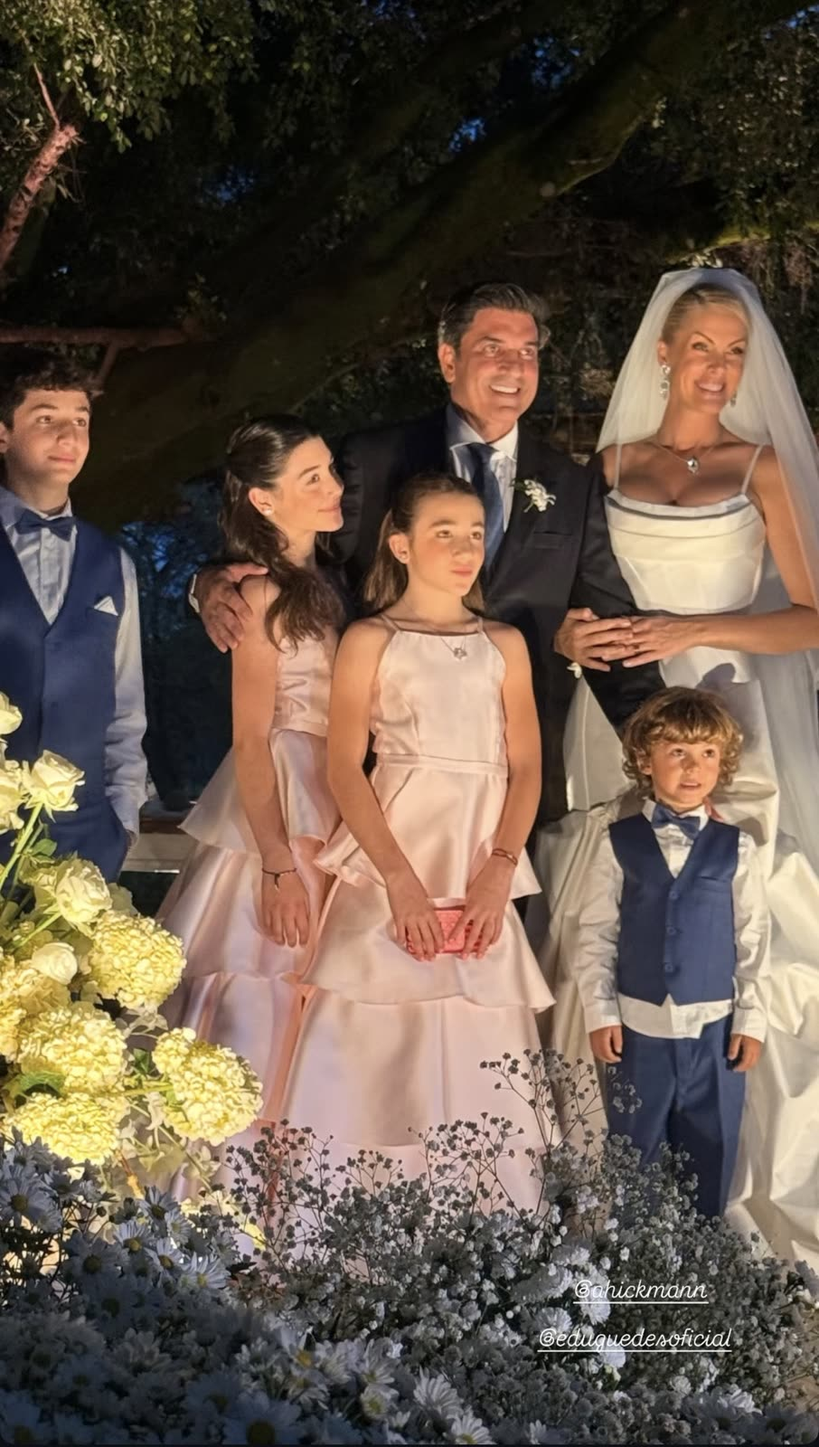
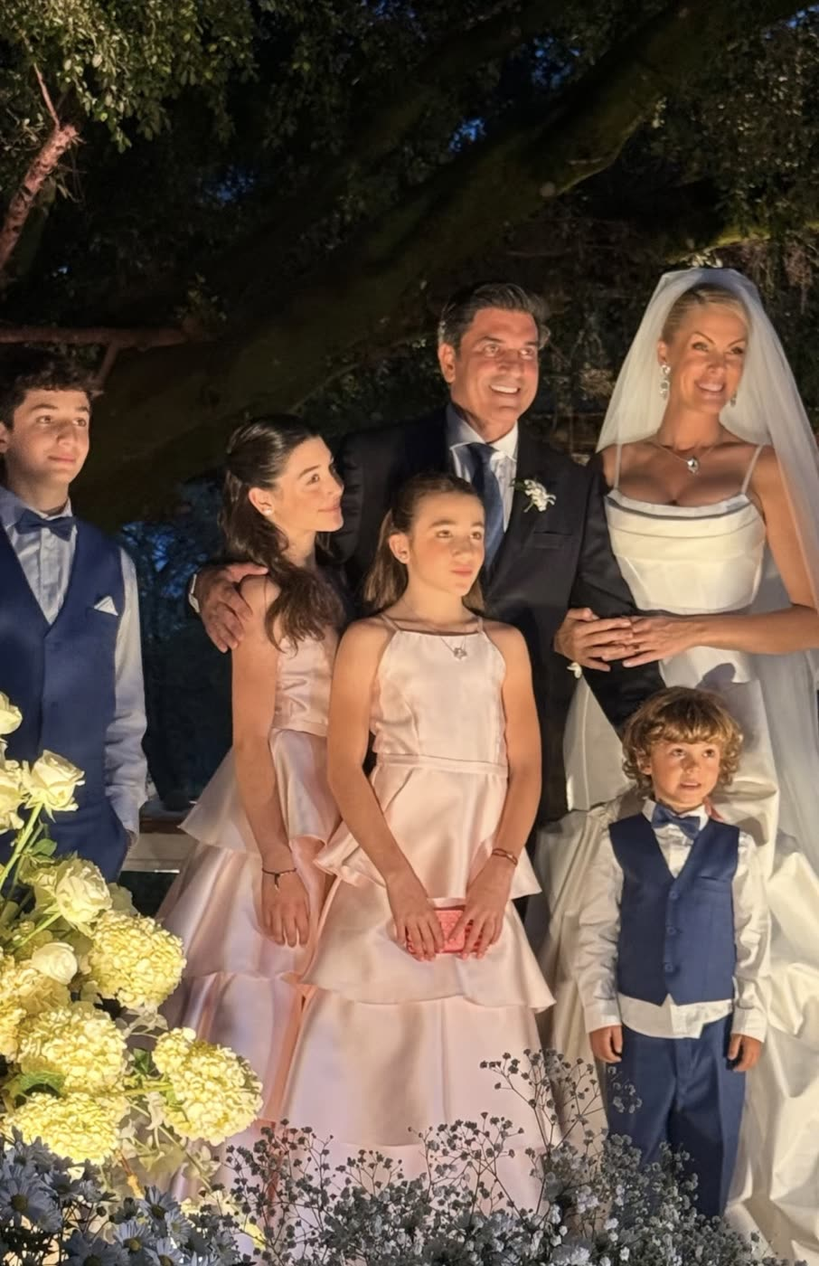
Rename portfolio projects, reorder, and crop the @ handles
- Featured wedding is now "Casamento Ana Hickmann e Edu Guedes", in the
  heading, the page index, the lightbox captions and the page metadata.
- The four shoots are prefixed "Noiva" and Nina is spelled Nyna:
  Noiva Nyna, Noiva Vitória, Noiva Maya, Noiva Iza.
- New order: the wedding, then Nyna, Vitória, Maya, Iza.
- The night family photo carried "@ahickmann / @eduguedesoficial" burned
  into the bottom of the frame. Re-cropped from the original at 1400px
  tall (was 1600), which cuts the handles and only foreground flowers.
  Checked the bottom of all 21 photos — no other handles.

diff --git a/portfolio.html b/portfolio.html
@@ -4,12 +4,12 @@
   <meta charset="UTF-8" />
   <meta name="viewport" content="width=device-width, initial-scale=1.0" />
   <title>Portfólio — Arih Ateliê | Noivas, casamentos e editoriais</title>
-  <meta name="description" content="Portfólio do Arih Ateliê: o casamento Edu Guedes e ensaios de noivas em Ilhabela. Maquiagem e penteados de alta performance, fotografados de perto." />
+  <meta name="description" content="Portfólio do Arih Ateliê: o casamento de Ana Hickmann e Edu Guedes e ensaios de noivas em Ilhabela. Maquiagem e penteados de alta performance, fotografados de perto." />
   <meta name="theme-color" content="#FBF6EC" />
 
   <!-- Open Graph -->
   <meta property="og:title" content="Portfólio — Arih Ateliê" />
-  <meta property="og:description" content="Um casamento real e quatro ensaios de noivas. Maquiagem e penteados que resistem ao sol, ao vento e à festa." />
+  <meta property="og:description" content="O casamento de Ana Hickmann e Edu Guedes e quatro ensaios de noivas. Maquiagem e penteados que resistem ao sol, ao vento e à festa." />
   <meta property="og:type" content="website" />
   <meta property="og:locale" content="pt_BR" />
   <meta property="og:image" content="assets/web/casamentoeduguedes/04.jpg" />
@@ -566,16 +566,16 @@
       </div>
 
       <nav class="reveal mt-12 pt-6 border-t border-rose/35 pf-index" aria-label="Projetos nesta página">
-        <a href="#edu-guedes">Casamento Edu Guedes</a>
-        <a href="#maya">Maya</a>
-        <a href="#iza">Iza</a>
-        <a href="#nina">Nina</a>
-        <a href="#vitoria">Vitória</a>
+        <a href="#edu-guedes">Casamento Ana Hickmann e Edu Guedes</a>
+        <a href="#nyna">Noiva Nyna</a>
+        <a href="#vitoria">Noiva Vitória</a>
+        <a href="#maya">Noiva Maya</a>
+        <a href="#iza">Noiva Iza</a>
       </nav>
     </div>
   </section>
 
-  <!-- ============ DESTAQUE — Casamento Edu Guedes ============ -->
+  <!-- ============ DESTAQUE — Casamento Ana Hickmann e Edu Guedes ============ -->
   <section id="edu-guedes" class="relative pb-[var(--space)] overflow-hidden">
     <div class="relative z-10 mx-auto max-w-7xl px-5 lg:px-10">
 
@@ -586,7 +586,7 @@
             Casamento real
           </span>
           <h2 class="reveal mt-4 font-display font-semibold text-[clamp(2.1rem,5vw,3.6rem)] leading-[1] text-terracotta" style="letter-spacing:-0.025em;">
-            Casamento<br class="hidden sm:block"> Edu Guedes
+            Casamento Ana Hickmann<br class="hidden sm:block"> e Edu Guedes
           </h2>
         </div>
         <div class="reveal">
@@ -603,12 +603,12 @@
 
       <div class="f-grid mt-10 lg:mt-14">
         <div class="f-col f-col-a">
-          <button type="button" class="pf-photo reveal " data-full="assets/web/casamentoeduguedes/04.jpg" data-project="Casamento Edu Guedes" data-alt="Pai e filha de mãos dadas, caminhando pelo tapete branco do jardim" aria-label="Ampliar foto: Pai e filha de mãos dadas, caminhando pelo tapete branco do jardim"><img src="assets/web/casamentoeduguedes/04.jpg" width="1212" height="1600" sizes="(min-width: 900px) 52vw, 92vw" alt="Pai e filha de mãos dadas, caminhando pelo tapete branco do jardim" decoding="async" /><span class="pf-mat"></span><span class="pf-zoom" aria-hidden="true"><svg width="17" height="17" viewBox="0 0 24 24" fill="none" stroke="currentColor" stroke-width="1.7" stroke-linecap="round"><circle cx="11" cy="11" r="6.5"/><path d="M20 20l-4.4-4.4M11 8.4v5.2M8.4 11h5.2"/></svg></span></button>
-          <button type="button" class="pf-photo reveal " data-full="assets/web/casamentoeduguedes/03.jpg" data-project="Casamento Edu Guedes" data-alt="Os noivos com a família no jardim iluminado, durante a festa à noite" aria-label="Ampliar foto: Os noivos com a família no jardim iluminado, durante a festa à noite"><img src="assets/web/casamentoeduguedes/03.jpg" width="906" height="1600" sizes="(min-width: 900px) 52vw, 92vw" alt="Os noivos com a família no jardim iluminado, durante a festa à noite" loading="lazy" decoding="async" /><span class="pf-mat"></span><span class="pf-zoom" aria-hidden="true"><svg width="17" height="17" viewBox="0 0 24 24" fill="none" stroke="currentColor" stroke-width="1.7" stroke-linecap="round"><circle cx="11" cy="11" r="6.5"/><path d="M20 20l-4.4-4.4M11 8.4v5.2M8.4 11h5.2"/></svg></span></button>
+          <button type="button" class="pf-photo reveal " data-full="assets/web/casamentoeduguedes/04.jpg" data-project="Casamento Ana Hickmann e Edu Guedes" data-alt="Pai e filha de mãos dadas, caminhando pelo tapete branco do jardim" aria-label="Ampliar foto: Pai e filha de mãos dadas, caminhando pelo tapete branco do jardim"><img src="assets/web/casamentoeduguedes/04.jpg" width="1212" height="1600" sizes="(min-width: 900px) 52vw, 92vw" alt="Pai e filha de mãos dadas, caminhando pelo tapete branco do jardim" decoding="async" /><span class="pf-mat"></span><span class="pf-zoom" aria-hidden="true"><svg width="17" height="17" viewBox="0 0 24 24" fill="none" stroke="currentColor" stroke-width="1.7" stroke-linecap="round"><circle cx="11" cy="11" r="6.5"/><path d="M20 20l-4.4-4.4M11 8.4v5.2M8.4 11h5.2"/></svg></span></button>
+          <button type="button" class="pf-photo reveal " data-full="assets/web/casamentoeduguedes/03.jpg" data-project="Casamento Ana Hickmann e Edu Guedes" data-alt="Os noivos com a família no jardim iluminado, durante a festa à noite" aria-label="Ampliar foto: Os noivos com a família no jardim iluminado, durante a festa à noite"><img src="assets/web/casamentoeduguedes/03.jpg" width="906" height="1400" sizes="(min-width: 900px) 52vw, 92vw" alt="Os noivos com a família no jardim iluminado, durante a festa à noite" loading="lazy" decoding="async" /><span class="pf-mat"></span><span class="pf-zoom" aria-hidden="true"><svg width="17" height="17" viewBox="0 0 24 24" fill="none" stroke="currentColor" stroke-width="1.7" stroke-linecap="round"><circle cx="11" cy="11" r="6.5"/><path d="M20 20l-4.4-4.4M11 8.4v5.2M8.4 11h5.2"/></svg></span></button>
         </div>
         <div class="f-col f-col-b">
-          <button type="button" class="pf-photo reveal " data-full="assets/web/casamentoeduguedes/01.jpg" data-project="Casamento Edu Guedes" data-alt="Família e madrinhas reunidas na entrada do salão, antes da cerimônia" aria-label="Ampliar foto: Família e madrinhas reunidas na entrada do salão, antes da cerimônia"><img src="assets/web/casamentoeduguedes/01.jpg" width="1600" height="1600" sizes="(min-width: 900px) 44vw, 92vw" alt="Família e madrinhas reunidas na entrada do salão, antes da cerimônia" decoding="async" /><span class="pf-mat"></span><span class="pf-zoom" aria-hidden="true"><svg width="17" height="17" viewBox="0 0 24 24" fill="none" stroke="currentColor" stroke-width="1.7" stroke-linecap="round"><circle cx="11" cy="11" r="6.5"/><path d="M20 20l-4.4-4.4M11 8.4v5.2M8.4 11h5.2"/></svg></span></button>
-          <button type="button" class="pf-photo reveal " data-full="assets/web/casamentoeduguedes/02.jpg" data-project="Casamento Edu Guedes" data-alt="Cortejo de crianças levando buquês pelo caminho do jardim" aria-label="Ampliar foto: Cortejo de crianças levando buquês pelo caminho do jardim"><img src="assets/web/casamentoeduguedes/02.jpg" width="910" height="1600" sizes="(min-width: 900px) 44vw, 92vw" alt="Cortejo de crianças levando buquês pelo caminho do jardim" loading="lazy" decoding="async" /><span class="pf-mat"></span><span class="pf-zoom" aria-hidden="true"><svg width="17" height="17" viewBox="0 0 24 24" fill="none" stroke="currentColor" stroke-width="1.7" stroke-linecap="round"><circle cx="11" cy="11" r="6.5"/><path d="M20 20l-4.4-4.4M11 8.4v5.2M8.4 11h5.2"/></svg></span></button>
+          <button type="button" class="pf-photo reveal " data-full="assets/web/casamentoeduguedes/01.jpg" data-project="Casamento Ana Hickmann e Edu Guedes" data-alt="Família e madrinhas reunidas na entrada do salão, antes da cerimônia" aria-label="Ampliar foto: Família e madrinhas reunidas na entrada do salão, antes da cerimônia"><img src="assets/web/casamentoeduguedes/01.jpg" width="1600" height="1600" sizes="(min-width: 900px) 44vw, 92vw" alt="Família e madrinhas reunidas na entrada do salão, antes da cerimônia" decoding="async" /><span class="pf-mat"></span><span class="pf-zoom" aria-hidden="true"><svg width="17" height="17" viewBox="0 0 24 24" fill="none" stroke="currentColor" stroke-width="1.7" stroke-linecap="round"><circle cx="11" cy="11" r="6.5"/><path d="M20 20l-4.4-4.4M11 8.4v5.2M8.4 11h5.2"/></svg></span></button>
+          <button type="button" class="pf-photo reveal " data-full="assets/web/casamentoeduguedes/02.jpg" data-project="Casamento Ana Hickmann e Edu Guedes" data-alt="Cortejo de crianças levando buquês pelo caminho do jardim" aria-label="Ampliar foto: Cortejo de crianças levando buquês pelo caminho do jardim"><img src="assets/web/casamentoeduguedes/02.jpg" width="910" height="1600" sizes="(min-width: 900px) 44vw, 92vw" alt="Cortejo de crianças levando buquês pelo caminho do jardim" loading="lazy" decoding="async" /><span class="pf-mat"></span><span class="pf-zoom" aria-hidden="true"><svg width="17" height="17" viewBox="0 0 24 24" fill="none" stroke="currentColor" stroke-width="1.7" stroke-linecap="round"><circle cx="11" cy="11" r="6.5"/><path d="M20 20l-4.4-4.4M11 8.4v5.2M8.4 11h5.2"/></svg></span></button>
         </div>
       </div>
 
@@ -631,60 +631,60 @@
         </p>
       </div>
 
-      <!-- Maya -->
-      <article id="maya" class="mt-16 lg:mt-24 scroll-mt-32">
+      <!-- Noiva Nyna -->
+      <article id="nyna" class="mt-16 lg:mt-24 scroll-mt-32">
         <div class="pf-head flex flex-col md:flex-row md:items-baseline md:justify-between gap-3 md:gap-10">
           <div class="reveal flex items-baseline gap-4">
-            <h3 class="font-display font-semibold text-[clamp(1.7rem,3.4vw,2.5rem)] leading-none text-terracotta" style="letter-spacing:-0.02em;">Maya</h3>
-            <span class="eyebrow !text-[0.62rem] !tracking-[0.24em] text-teal/90">Noiva clássica</span>
-          </div>
-          <p class="reveal text-sm text-ink/75 leading-relaxed md:max-w-md">Pérolas, pele de acabamento acetinado e um coque baixo com mechas soltas no rosto. Fotografado em luz natural, junto à porta de madeira.</p>
-        </div>
-        
-        <p class="pf-swipe eyebrow !text-[0.6rem] !tracking-[0.26em] mt-4 mb-1 text-teal/80">Deslize para ver mais<svg width="18" height="18" viewBox="0 0 24 24" fill="none" stroke="currentColor" stroke-width="1.5" stroke-linecap="round" aria-hidden="true"><path d="M4 12h15M13 6l6 6-6 6"/></svg></p>
-        <div class="pf-rail mt-3 md:mt-8" style="--cols:4;"><button type="button" class="pf-photo reveal " data-full="assets/web/noivamaya/01.jpg" data-project="Maya" data-alt="Noiva com vestido bordado de pérolas, coque baixo e maquiagem em tons neutros" aria-label="Ampliar foto: Noiva com vestido bordado de pérolas, coque baixo e maquiagem em tons neutros"><img src="assets/web/noivamaya/01.jpg" width="900" height="1600" sizes="(min-width: 860px) 22vw, 74vw" alt="Noiva com vestido bordado de pérolas, coque baixo e maquiagem em tons neutros" loading="lazy" decoding="async" /><span class="pf-mat"></span><span class="pf-zoom" aria-hidden="true"><svg width="17" height="17" viewBox="0 0 24 24" fill="none" stroke="currentColor" stroke-width="1.7" stroke-linecap="round"><circle cx="11" cy="11" r="6.5"/><path d="M20 20l-4.4-4.4M11 8.4v5.2M8.4 11h5.2"/></svg></span></button><button type="button" class="pf-photo reveal " data-full="assets/web/noivamaya/02.jpg" data-project="Maya" data-alt="Noiva apoiada em uma porta de madeira, de perfil, com mechas soltas no rosto" aria-label="Ampliar foto: Noiva apoiada em uma porta de madeira, de perfil, com mechas soltas no rosto"><img src="assets/web/noivamaya/02.jpg" width="900" height="1600" sizes="(min-width: 860px) 22vw, 74vw" alt="Noiva apoiada em uma porta de madeira, de perfil, com mechas soltas no rosto" loading="lazy" decoding="async" /><span class="pf-mat"></span><span class="pf-zoom" aria-hidden="true"><svg width="17" height="17" viewBox="0 0 24 24" fill="none" stroke="currentColor" stroke-width="1.7" stroke-linecap="round"><circle cx="11" cy="11" r="6.5"/><path d="M20 20l-4.4-4.4M11 8.4v5.2M8.4 11h5.2"/></svg></span></button><button type="button" class="pf-photo reveal " data-full="assets/web/noivamaya/03.jpg" data-project="Maya" data-alt="Noiva sentada em cadeira antiga, olhando para a câmera, pele com acabamento acetinado" aria-label="Ampliar foto: Noiva sentada em cadeira antiga, olhando para a câmera, pele com acabamento acetinado"><img src="assets/web/noivamaya/03.jpg" width="900" height="1600" sizes="(min-width: 860px) 22vw, 74vw" alt="Noiva sentada em cadeira antiga, olhando para a câmera, pele com acabamento acetinado" loading="lazy" decoding="async" /><span class="pf-mat"></span><span class="pf-zoom" aria-hidden="true"><svg width="17" height="17" viewBox="0 0 24 24" fill="none" stroke="currentColor" stroke-width="1.7" stroke-linecap="round"><circle cx="11" cy="11" r="6.5"/><path d="M20 20l-4.4-4.4M11 8.4v5.2M8.4 11h5.2"/></svg></span></button><button type="button" class="pf-photo reveal " data-full="assets/web/noivamaya/04.jpg" data-project="Maya" data-alt="Close do rosto da noiva: sombra esfumada, cílios definidos e boca rosada" aria-label="Ampliar foto: Close do rosto da noiva: sombra esfumada, cílios definidos e boca rosada"><img src="assets/web/noivamaya/04.jpg" width="900" height="1600" sizes="(min-width: 860px) 22vw, 74vw" alt="Close do rosto da noiva: sombra esfumada, cílios definidos e boca rosada" loading="lazy" decoding="async" /><span class="pf-mat"></span><span class="pf-zoom" aria-hidden="true"><svg width="17" height="17" viewBox="0 0 24 24" fill="none" stroke="currentColor" stroke-width="1.7" stroke-linecap="round"><circle cx="11" cy="11" r="6.5"/><path d="M20 20l-4.4-4.4M11 8.4v5.2M8.4 11h5.2"/></svg></span></button></div>
-      </article>
-
-      <!-- Iza -->
-      <article id="iza" class="mt-16 lg:mt-24 scroll-mt-32">
-        <div class="pf-head flex flex-col md:flex-row md:items-baseline md:justify-between gap-3 md:gap-10">
-          <div class="reveal flex items-baseline gap-4">
-            <h3 class="font-display font-semibold text-[clamp(1.7rem,3.4vw,2.5rem)] leading-none text-terracotta" style="letter-spacing:-0.02em;">Iza</h3>
-            <span class="eyebrow !text-[0.62rem] !tracking-[0.24em] text-teal/90">Pé na areia</span>
-          </div>
-          <p class="reveal text-sm text-ink/75 leading-relaxed md:max-w-md">Sol a pino na praia: turbante, renda e uma maquiagem construída para não ceder ao calor nem à maresia.</p>
-        </div>
-        
-        <p class="pf-swipe eyebrow !text-[0.6rem] !tracking-[0.26em] mt-4 mb-1 text-teal/80">Deslize para ver mais<svg width="18" height="18" viewBox="0 0 24 24" fill="none" stroke="currentColor" stroke-width="1.5" stroke-linecap="round" aria-hidden="true"><path d="M4 12h15M13 6l6 6-6 6"/></svg></p>
-        <div class="pf-rail mt-3 md:mt-8" style="--cols:4;"><button type="button" class="pf-photo reveal " data-full="assets/web/noivaiza/01.jpg" data-project="Iza" data-alt="Noiva deitada na areia, vestido de renda espalhado e turbante branco" aria-label="Ampliar foto: Noiva deitada na areia, vestido de renda espalhado e turbante branco"><img src="assets/web/noivaiza/01.jpg" width="1070" height="1600" sizes="(min-width: 860px) 22vw, 74vw" alt="Noiva deitada na areia, vestido de renda espalhado e turbante branco" loading="lazy" decoding="async" /><span class="pf-mat"></span><span class="pf-zoom" aria-hidden="true"><svg width="17" height="17" viewBox="0 0 24 24" fill="none" stroke="currentColor" stroke-width="1.7" stroke-linecap="round"><circle cx="11" cy="11" r="6.5"/><path d="M20 20l-4.4-4.4M11 8.4v5.2M8.4 11h5.2"/></svg></span></button><button type="button" class="pf-photo reveal " data-full="assets/web/noivaiza/02.jpg" data-project="Iza" data-alt="Retrato da noiva na areia, sorrindo com a mão no cabelo" aria-label="Ampliar foto: Retrato da noiva na areia, sorrindo com a mão no cabelo"><img src="assets/web/noivaiza/02.jpg" width="900" height="1600" sizes="(min-width: 860px) 22vw, 74vw" alt="Retrato da noiva na areia, sorrindo com a mão no cabelo" loading="lazy" decoding="async" /><span class="pf-mat"></span><span class="pf-zoom" aria-hidden="true"><svg width="17" height="17" viewBox="0 0 24 24" fill="none" stroke="currentColor" stroke-width="1.7" stroke-linecap="round"><circle cx="11" cy="11" r="6.5"/><path d="M20 20l-4.4-4.4M11 8.4v5.2M8.4 11h5.2"/></svg></span></button><button type="button" class="pf-photo reveal " data-full="assets/web/noivaiza/03.jpg" data-project="Iza" data-alt="Noiva em pé sobre as pedras, de frente para o mar, com a cauda de renda estendida" aria-label="Ampliar foto: Noiva em pé sobre as pedras, de frente para o mar, com a cauda de renda estendida"><img src="assets/web/noivaiza/03.jpg" width="848" height="1600" sizes="(min-width: 860px) 22vw, 74vw" alt="Noiva em pé sobre as pedras, de frente para o mar, com a cauda de renda estendida" loading="lazy" decoding="async" /><span class="pf-mat"></span><span class="pf-zoom" aria-hidden="true"><svg width="17" height="17" viewBox="0 0 24 24" fill="none" stroke="currentColor" stroke-width="1.7" stroke-linecap="round"><circle cx="11" cy="11" r="6.5"/><path d="M20 20l-4.4-4.4M11 8.4v5.2M8.4 11h5.2"/></svg></span></button><button type="button" class="pf-photo reveal " data-full="assets/web/noivaiza/04.jpg" data-project="Iza" data-alt="Noiva na beira do mar, rosto erguido ao sol, vestido de renda ao vento" aria-label="Ampliar foto: Noiva na beira do mar, rosto erguido ao sol, vestido de renda ao vento"><img src="assets/web/noivaiza/04.jpg" width="1162" height="1600" sizes="(min-width: 860px) 22vw, 74vw" alt="Noiva na beira do mar, rosto erguido ao sol, vestido de renda ao vento" loading="lazy" decoding="async" /><span class="pf-mat"></span><span class="pf-zoom" aria-hidden="true"><svg width="17" height="17" viewBox="0 0 24 24" fill="none" stroke="currentColor" stroke-width="1.7" stroke-linecap="round"><circle cx="11" cy="11" r="6.5"/><path d="M20 20l-4.4-4.4M11 8.4v5.2M8.4 11h5.2"/></svg></span></button></div>
-      </article>
-
-      <!-- Nina -->
-      <article id="nina" class="mt-16 lg:mt-24 scroll-mt-32">
-        <div class="pf-head flex flex-col md:flex-row md:items-baseline md:justify-between gap-3 md:gap-10">
-          <div class="reveal flex items-baseline gap-4">
-            <h3 class="font-display font-semibold text-[clamp(1.7rem,3.4vw,2.5rem)] leading-none text-terracotta" style="letter-spacing:-0.02em;">Nina</h3>
+            <h3 class="font-display font-semibold text-[clamp(1.7rem,3.4vw,2.5rem)] leading-none text-terracotta" style="letter-spacing:-0.02em;">Noiva Nyna</h3>
             <span class="eyebrow !text-[0.62rem] !tracking-[0.24em] text-teal/90">Fim de tarde</span>
           </div>
           <p class="reveal text-sm text-ink/75 leading-relaxed md:max-w-md">Luz dourada nas pedras. Acabamento natural na pele e um preso com textura, feito para o vento do mar.</p>
         </div>
-        <div class="mt-8 lg:mt-10"><button type="button" class="pf-photo reveal " data-full="assets/web/nina/01.jpg" data-project="Nina" data-alt="Noiva sentada na pedra, de frente para o mar, no fim da tarde" aria-label="Ampliar foto: Noiva sentada na pedra, de frente para o mar, no fim da tarde"><img src="assets/web/nina/01.jpg" width="1600" height="1066" sizes="(min-width: 860px) 88vw, 92vw" alt="Noiva sentada na pedra, de frente para o mar, no fim da tarde" loading="lazy" decoding="async" /><span class="pf-mat"></span><span class="pf-zoom" aria-hidden="true"><svg width="17" height="17" viewBox="0 0 24 24" fill="none" stroke="currentColor" stroke-width="1.7" stroke-linecap="round"><circle cx="11" cy="11" r="6.5"/><path d="M20 20l-4.4-4.4M11 8.4v5.2M8.4 11h5.2"/></svg></span></button></div>
+        <div class="mt-8 lg:mt-10"><button type="button" class="pf-photo reveal " data-full="assets/web/nina/01.jpg" data-project="Noiva Nyna" data-alt="Noiva sentada na pedra, de frente para o mar, no fim da tarde" aria-label="Ampliar foto: Noiva sentada na pedra, de frente para o mar, no fim da tarde"><img src="assets/web/nina/01.jpg" width="1600" height="1066" sizes="(min-width: 860px) 88vw, 92vw" alt="Noiva sentada na pedra, de frente para o mar, no fim da tarde" loading="lazy" decoding="async" /><span class="pf-mat"></span><span class="pf-zoom" aria-hidden="true"><svg width="17" height="17" viewBox="0 0 24 24" fill="none" stroke="currentColor" stroke-width="1.7" stroke-linecap="round"><circle cx="11" cy="11" r="6.5"/><path d="M20 20l-4.4-4.4M11 8.4v5.2M8.4 11h5.2"/></svg></span></button></div>
         <p class="pf-swipe eyebrow !text-[0.6rem] !tracking-[0.26em] mt-4 mb-1 text-teal/80">Deslize para ver mais<svg width="18" height="18" viewBox="0 0 24 24" fill="none" stroke="currentColor" stroke-width="1.5" stroke-linecap="round" aria-hidden="true"><path d="M4 12h15M13 6l6 6-6 6"/></svg></p>
-        <div class="pf-rail mt-3 md:mt-8" style="--cols:3;"><button type="button" class="pf-photo reveal " data-full="assets/web/nina/02.jpg" data-project="Nina" data-alt="Noiva deitada sobre a pedra, vestido curto de renda, sob luz dourada" aria-label="Ampliar foto: Noiva deitada sobre a pedra, vestido curto de renda, sob luz dourada"><img src="assets/web/nina/02.jpg" width="1066" height="1600" sizes="(min-width: 860px) 29vw, 74vw" alt="Noiva deitada sobre a pedra, vestido curto de renda, sob luz dourada" loading="lazy" decoding="async" /><span class="pf-mat"></span><span class="pf-zoom" aria-hidden="true"><svg width="17" height="17" viewBox="0 0 24 24" fill="none" stroke="currentColor" stroke-width="1.7" stroke-linecap="round"><circle cx="11" cy="11" r="6.5"/><path d="M20 20l-4.4-4.4M11 8.4v5.2M8.4 11h5.2"/></svg></span></button><button type="button" class="pf-photo reveal " data-full="assets/web/nina/03.jpg" data-project="Nina" data-alt="Perfil da noiva ao sol baixo, cabelo preso com fios soltos e pele iluminada" aria-label="Ampliar foto: Perfil da noiva ao sol baixo, cabelo preso com fios soltos e pele iluminada"><img src="assets/web/nina/03.jpg" width="900" height="1600" sizes="(min-width: 860px) 29vw, 74vw" alt="Perfil da noiva ao sol baixo, cabelo preso com fios soltos e pele iluminada" loading="lazy" decoding="async" /><span class="pf-mat"></span><span class="pf-zoom" aria-hidden="true"><svg width="17" height="17" viewBox="0 0 24 24" fill="none" stroke="currentColor" stroke-width="1.7" stroke-linecap="round"><circle cx="11" cy="11" r="6.5"/><path d="M20 20l-4.4-4.4M11 8.4v5.2M8.4 11h5.2"/></svg></span></button><button type="button" class="pf-photo reveal " data-full="assets/web/nina/04.jpg" data-project="Nina" data-alt="Retrato da noiva olhando para o horizonte, brinco de pérola e maquiagem natural" aria-label="Ampliar foto: Retrato da noiva olhando para o horizonte, brinco de pérola e maquiagem natural"><img src="assets/web/nina/04.jpg" width="900" height="1600" sizes="(min-width: 860px) 29vw, 74vw" alt="Retrato da noiva olhando para o horizonte, brinco de pérola e maquiagem natural" loading="lazy" decoding="async" /><span class="pf-mat"></span><span class="pf-zoom" aria-hidden="true"><svg width="17" height="17" viewBox="0 0 24 24" fill="none" stroke="currentColor" stroke-width="1.7" stroke-linecap="round"><circle cx="11" cy="11" r="6.5"/><path d="M20 20l-4.4-4.4M11 8.4v5.2M8.4 11h5.2"/></svg></span></button></div>
+        <div class="pf-rail mt-3 md:mt-8" style="--cols:3;"><button type="button" class="pf-photo reveal " data-full="assets/web/nina/02.jpg" data-project="Noiva Nyna" data-alt="Noiva deitada sobre a pedra, vestido curto de renda, sob luz dourada" aria-label="Ampliar foto: Noiva deitada sobre a pedra, vestido curto de renda, sob luz dourada"><img src="assets/web/nina/02.jpg" width="1066" height="1600" sizes="(min-width: 860px) 29vw, 74vw" alt="Noiva deitada sobre a pedra, vestido curto de renda, sob luz dourada" loading="lazy" decoding="async" /><span class="pf-mat"></span><span class="pf-zoom" aria-hidden="true"><svg width="17" height="17" viewBox="0 0 24 24" fill="none" stroke="currentColor" stroke-width="1.7" stroke-linecap="round"><circle cx="11" cy="11" r="6.5"/><path d="M20 20l-4.4-4.4M11 8.4v5.2M8.4 11h5.2"/></svg></span></button><button type="button" class="pf-photo reveal " data-full="assets/web/nina/03.jpg" data-project="Noiva Nyna" data-alt="Perfil da noiva ao sol baixo, cabelo preso com fios soltos e pele iluminada" aria-label="Ampliar foto: Perfil da noiva ao sol baixo, cabelo preso com fios soltos e pele iluminada"><img src="assets/web/nina/03.jpg" width="900" height="1600" sizes="(min-width: 860px) 29vw, 74vw" alt="Perfil da noiva ao sol baixo, cabelo preso com fios soltos e pele iluminada" loading="lazy" decoding="async" /><span class="pf-mat"></span><span class="pf-zoom" aria-hidden="true"><svg width="17" height="17" viewBox="0 0 24 24" fill="none" stroke="currentColor" stroke-width="1.7" stroke-linecap="round"><circle cx="11" cy="11" r="6.5"/><path d="M20 20l-4.4-4.4M11 8.4v5.2M8.4 11h5.2"/></svg></span></button><button type="button" class="pf-photo reveal " data-full="assets/web/nina/04.jpg" data-project="Noiva Nyna" data-alt="Retrato da noiva olhando para o horizonte, brinco de pérola e maquiagem natural" aria-label="Ampliar foto: Retrato da noiva olhando para o horizonte, brinco de pérola e maquiagem natural"><img src="assets/web/nina/04.jpg" width="900" height="1600" sizes="(min-width: 860px) 29vw, 74vw" alt="Retrato da noiva olhando para o horizonte, brinco de pérola e maquiagem natural" loading="lazy" decoding="async" /><span class="pf-mat"></span><span class="pf-zoom" aria-hidden="true"><svg width="17" height="17" viewBox="0 0 24 24" fill="none" stroke="currentColor" stroke-width="1.7" stroke-linecap="round"><circle cx="11" cy="11" r="6.5"/><path d="M20 20l-4.4-4.4M11 8.4v5.2M8.4 11h5.2"/></svg></span></button></div>
       </article>
 
-      <!-- Vitória -->
+      <!-- Noiva Vitória -->
       <article id="vitoria" class="mt-16 lg:mt-24 scroll-mt-32">
         <div class="pf-head flex flex-col md:flex-row md:items-baseline md:justify-between gap-3 md:gap-10">
           <div class="reveal flex items-baseline gap-4">
-            <h3 class="font-display font-semibold text-[clamp(1.7rem,3.4vw,2.5rem)] leading-none text-terracotta" style="letter-spacing:-0.02em;">Vitória</h3>
+            <h3 class="font-display font-semibold text-[clamp(1.7rem,3.4vw,2.5rem)] leading-none text-terracotta" style="letter-spacing:-0.02em;">Noiva Vitória</h3>
             <span class="eyebrow !text-[0.62rem] !tracking-[0.24em] text-teal/90">Retrô</span>
           </div>
           <p class="reveal text-sm text-ink/75 leading-relaxed md:max-w-md">Boca vermelha, ondas marcadas e touca de renda — referência dos anos 40 lida em chave contemporânea.</p>
         </div>
         
         <p class="pf-swipe eyebrow !text-[0.6rem] !tracking-[0.26em] mt-4 mb-1 text-teal/80">Deslize para ver mais<svg width="18" height="18" viewBox="0 0 24 24" fill="none" stroke="currentColor" stroke-width="1.5" stroke-linecap="round" aria-hidden="true"><path d="M4 12h15M13 6l6 6-6 6"/></svg></p>
-        <div class="pf-rail mt-3 md:mt-8" style="--cols:5;"><button type="button" class="pf-photo reveal " data-full="assets/web/vitoria/01.jpg" data-project="Vitória" data-alt="Retrato da noiva no jardim, boca vermelha e ondas marcadas no cabelo curto" aria-label="Ampliar foto: Retrato da noiva no jardim, boca vermelha e ondas marcadas no cabelo curto"><img src="assets/web/vitoria/01.jpg" width="900" height="1600" sizes="(min-width: 860px) 17vw, 74vw" alt="Retrato da noiva no jardim, boca vermelha e ondas marcadas no cabelo curto" loading="lazy" decoding="async" /><span class="pf-mat"></span><span class="pf-zoom" aria-hidden="true"><svg width="17" height="17" viewBox="0 0 24 24" fill="none" stroke="currentColor" stroke-width="1.7" stroke-linecap="round"><circle cx="11" cy="11" r="6.5"/><path d="M20 20l-4.4-4.4M11 8.4v5.2M8.4 11h5.2"/></svg></span></button><button type="button" class="pf-photo reveal " data-full="assets/web/vitoria/02.jpg" data-project="Vitória" data-alt="Noiva em pé na porta de madeira, vestido de renda com saia plissada" aria-label="Ampliar foto: Noiva em pé na porta de madeira, vestido de renda com saia plissada"><img src="assets/web/vitoria/02.jpg" width="900" height="1600" sizes="(min-width: 860px) 17vw, 74vw" alt="Noiva em pé na porta de madeira, vestido de renda com saia plissada" loading="lazy" decoding="async" /><span class="pf-mat"></span><span class="pf-zoom" aria-hidden="true"><svg width="17" height="17" viewBox="0 0 24 24" fill="none" stroke="currentColor" stroke-width="1.7" stroke-linecap="round"><circle cx="11" cy="11" r="6.5"/><path d="M20 20l-4.4-4.4M11 8.4v5.2M8.4 11h5.2"/></svg></span></button><button type="button" class="pf-photo reveal " data-full="assets/web/vitoria/03.jpg" data-project="Vitória" data-alt="Close do rosto da noiva, batom vermelho e olhar para a câmera" aria-label="Ampliar foto: Close do rosto da noiva, batom vermelho e olhar para a câmera"><img src="assets/web/vitoria/03.jpg" width="900" height="1600" sizes="(min-width: 860px) 17vw, 74vw" alt="Close do rosto da noiva, batom vermelho e olhar para a câmera" loading="lazy" decoding="async" /><span class="pf-mat"></span><span class="pf-zoom" aria-hidden="true"><svg width="17" height="17" viewBox="0 0 24 24" fill="none" stroke="currentColor" stroke-width="1.7" stroke-linecap="round"><circle cx="11" cy="11" r="6.5"/><path d="M20 20l-4.4-4.4M11 8.4v5.2M8.4 11h5.2"/></svg></span></button><button type="button" class="pf-photo reveal " data-full="assets/web/vitoria/04.jpg" data-project="Vitória" data-alt="Noiva sentada em um banco de troncos, vestido longo e véu de renda" aria-label="Ampliar foto: Noiva sentada em um banco de troncos, vestido longo e véu de renda"><img src="assets/web/vitoria/04.jpg" width="900" height="1600" sizes="(min-width: 860px) 17vw, 74vw" alt="Noiva sentada em um banco de troncos, vestido longo e véu de renda" loading="lazy" decoding="async" /><span class="pf-mat"></span><span class="pf-zoom" aria-hidden="true"><svg width="17" height="17" viewBox="0 0 24 24" fill="none" stroke="currentColor" stroke-width="1.7" stroke-linecap="round"><circle cx="11" cy="11" r="6.5"/><path d="M20 20l-4.4-4.4M11 8.4v5.2M8.4 11h5.2"/></svg></span></button><button type="button" class="pf-photo reveal " data-full="assets/web/vitoria/05.jpg" data-project="Vitória" data-alt="Perfil da noiva com touca de renda sobre o cabelo ondulado" aria-label="Ampliar foto: Perfil da noiva com touca de renda sobre o cabelo ondulado"><img src="assets/web/vitoria/05.jpg" width="900" height="1600" sizes="(min-width: 860px) 17vw, 74vw" alt="Perfil da noiva com touca de renda sobre o cabelo ondulado" loading="lazy" decoding="async" /><span class="pf-mat"></span><span class="pf-zoom" aria-hidden="true"><svg width="17" height="17" viewBox="0 0 24 24" fill="none" stroke="currentColor" stroke-width="1.7" stroke-linecap="round"><circle cx="11" cy="11" r="6.5"/><path d="M20 20l-4.4-4.4M11 8.4v5.2M8.4 11h5.2"/></svg></span></button></div>
+        <div class="pf-rail mt-3 md:mt-8" style="--cols:5;"><button type="button" class="pf-photo reveal " data-full="assets/web/vitoria/01.jpg" data-project="Noiva Vitória" data-alt="Retrato da noiva no jardim, boca vermelha e ondas marcadas no cabelo curto" aria-label="Ampliar foto: Retrato da noiva no jardim, boca vermelha e ondas marcadas no cabelo curto"><img src="assets/web/vitoria/01.jpg" width="900" height="1600" sizes="(min-width: 860px) 17vw, 74vw" alt="Retrato da noiva no jardim, boca vermelha e ondas marcadas no cabelo curto" loading="lazy" decoding="async" /><span class="pf-mat"></span><span class="pf-zoom" aria-hidden="true"><svg width="17" height="17" viewBox="0 0 24 24" fill="none" stroke="currentColor" stroke-width="1.7" stroke-linecap="round"><circle cx="11" cy="11" r="6.5"/><path d="M20 20l-4.4-4.4M11 8.4v5.2M8.4 11h5.2"/></svg></span></button><button type="button" class="pf-photo reveal " data-full="assets/web/vitoria/02.jpg" data-project="Noiva Vitória" data-alt="Noiva em pé na porta de madeira, vestido de renda com saia plissada" aria-label="Ampliar foto: Noiva em pé na porta de madeira, vestido de renda com saia plissada"><img src="assets/web/vitoria/02.jpg" width="900" height="1600" sizes="(min-width: 860px) 17vw, 74vw" alt="Noiva em pé na porta de madeira, vestido de renda com saia plissada" loading="lazy" decoding="async" /><span class="pf-mat"></span><span class="pf-zoom" aria-hidden="true"><svg width="17" height="17" viewBox="0 0 24 24" fill="none" stroke="currentColor" stroke-width="1.7" stroke-linecap="round"><circle cx="11" cy="11" r="6.5"/><path d="M20 20l-4.4-4.4M11 8.4v5.2M8.4 11h5.2"/></svg></span></button><button type="button" class="pf-photo reveal " data-full="assets/web/vitoria/03.jpg" data-project="Noiva Vitória" data-alt="Close do rosto da noiva, batom vermelho e olhar para a câmera" aria-label="Ampliar foto: Close do rosto da noiva, batom vermelho e olhar para a câmera"><img src="assets/web/vitoria/03.jpg" width="900" height="1600" sizes="(min-width: 860px) 17vw, 74vw" alt="Close do rosto da noiva, batom vermelho e olhar para a câmera" loading="lazy" decoding="async" /><span class="pf-mat"></span><span class="pf-zoom" aria-hidden="true"><svg width="17" height="17" viewBox="0 0 24 24" fill="none" stroke="currentColor" stroke-width="1.7" stroke-linecap="round"><circle cx="11" cy="11" r="6.5"/><path d="M20 20l-4.4-4.4M11 8.4v5.2M8.4 11h5.2"/></svg></span></button><button type="button" class="pf-photo reveal " data-full="assets/web/vitoria/04.jpg" data-project="Noiva Vitória" data-alt="Noiva sentada em um banco de troncos, vestido longo e véu de renda" aria-label="Ampliar foto: Noiva sentada em um banco de troncos, vestido longo e véu de renda"><img src="assets/web/vitoria/04.jpg" width="900" height="1600" sizes="(min-width: 860px) 17vw, 74vw" alt="Noiva sentada em um banco de troncos, vestido longo e véu de renda" loading="lazy" decoding="async" /><span class="pf-mat"></span><span class="pf-zoom" aria-hidden="true"><svg width="17" height="17" viewBox="0 0 24 24" fill="none" stroke="currentColor" stroke-width="1.7" stroke-linecap="round"><circle cx="11" cy="11" r="6.5"/><path d="M20 20l-4.4-4.4M11 8.4v5.2M8.4 11h5.2"/></svg></span></button><button type="button" class="pf-photo reveal " data-full="assets/web/vitoria/05.jpg" data-project="Noiva Vitória" data-alt="Perfil da noiva com touca de renda sobre o cabelo ondulado" aria-label="Ampliar foto: Perfil da noiva com touca de renda sobre o cabelo ondulado"><img src="assets/web/vitoria/05.jpg" width="900" height="1600" sizes="(min-width: 860px) 17vw, 74vw" alt="Perfil da noiva com touca de renda sobre o cabelo ondulado" loading="lazy" decoding="async" /><span class="pf-mat"></span><span class="pf-zoom" aria-hidden="true"><svg width="17" height="17" viewBox="0 0 24 24" fill="none" stroke="currentColor" stroke-width="1.7" stroke-linecap="round"><circle cx="11" cy="11" r="6.5"/><path d="M20 20l-4.4-4.4M11 8.4v5.2M8.4 11h5.2"/></svg></span></button></div>
+      </article>
+
+      <!-- Noiva Maya -->
+      <article id="maya" class="mt-16 lg:mt-24 scroll-mt-32">
+        <div class="pf-head flex flex-col md:flex-row md:items-baseline md:justify-between gap-3 md:gap-10">
+          <div class="reveal flex items-baseline gap-4">
+            <h3 class="font-display font-semibold text-[clamp(1.7rem,3.4vw,2.5rem)] leading-none text-terracotta" style="letter-spacing:-0.02em;">Noiva Maya</h3>
+            <span class="eyebrow !text-[0.62rem] !tracking-[0.24em] text-teal/90">Clássica</span>
+          </div>
+          <p class="reveal text-sm text-ink/75 leading-relaxed md:max-w-md">Pérolas, pele de acabamento acetinado e um coque baixo com mechas soltas no rosto. Fotografado em luz natural, junto à porta de madeira.</p>
+        </div>
+        
+        <p class="pf-swipe eyebrow !text-[0.6rem] !tracking-[0.26em] mt-4 mb-1 text-teal/80">Deslize para ver mais<svg width="18" height="18" viewBox="0 0 24 24" fill="none" stroke="currentColor" stroke-width="1.5" stroke-linecap="round" aria-hidden="true"><path d="M4 12h15M13 6l6 6-6 6"/></svg></p>
+        <div class="pf-rail mt-3 md:mt-8" style="--cols:4;"><button type="button" class="pf-photo reveal " data-full="assets/web/noivamaya/01.jpg" data-project="Noiva Maya" data-alt="Noiva com vestido bordado de pérolas, coque baixo e maquiagem em tons neutros" aria-label="Ampliar foto: Noiva com vestido bordado de pérolas, coque baixo e maquiagem em tons neutros"><img src="assets/web/noivamaya/01.jpg" width="900" height="1600" sizes="(min-width: 860px) 22vw, 74vw" alt="Noiva com vestido bordado de pérolas, coque baixo e maquiagem em tons neutros" loading="lazy" decoding="async" /><span class="pf-mat"></span><span class="pf-zoom" aria-hidden="true"><svg width="17" height="17" viewBox="0 0 24 24" fill="none" stroke="currentColor" stroke-width="1.7" stroke-linecap="round"><circle cx="11" cy="11" r="6.5"/><path d="M20 20l-4.4-4.4M11 8.4v5.2M8.4 11h5.2"/></svg></span></button><button type="button" class="pf-photo reveal " data-full="assets/web/noivamaya/02.jpg" data-project="Noiva Maya" data-alt="Noiva apoiada em uma porta de madeira, de perfil, com mechas soltas no rosto" aria-label="Ampliar foto: Noiva apoiada em uma porta de madeira, de perfil, com mechas soltas no rosto"><img src="assets/web/noivamaya/02.jpg" width="900" height="1600" sizes="(min-width: 860px) 22vw, 74vw" alt="Noiva apoiada em uma porta de madeira, de perfil, com mechas soltas no rosto" loading="lazy" decoding="async" /><span class="pf-mat"></span><span class="pf-zoom" aria-hidden="true"><svg width="17" height="17" viewBox="0 0 24 24" fill="none" stroke="currentColor" stroke-width="1.7" stroke-linecap="round"><circle cx="11" cy="11" r="6.5"/><path d="M20 20l-4.4-4.4M11 8.4v5.2M8.4 11h5.2"/></svg></span></button><button type="button" class="pf-photo reveal " data-full="assets/web/noivamaya/03.jpg" data-project="Noiva Maya" data-alt="Noiva sentada em cadeira antiga, olhando para a câmera, pele com acabamento acetinado" aria-label="Ampliar foto: Noiva sentada em cadeira antiga, olhando para a câmera, pele com acabamento acetinado"><img src="assets/web/noivamaya/03.jpg" width="900" height="1600" sizes="(min-width: 860px) 22vw, 74vw" alt="Noiva sentada em cadeira antiga, olhando para a câmera, pele com acabamento acetinado" loading="lazy" decoding="async" /><span class="pf-mat"></span><span class="pf-zoom" aria-hidden="true"><svg width="17" height="17" viewBox="0 0 24 24" fill="none" stroke="currentColor" stroke-width="1.7" stroke-linecap="round"><circle cx="11" cy="11" r="6.5"/><path d="M20 20l-4.4-4.4M11 8.4v5.2M8.4 11h5.2"/></svg></span></button><button type="button" class="pf-photo reveal " data-full="assets/web/noivamaya/04.jpg" data-project="Noiva Maya" data-alt="Close do rosto da noiva: sombra esfumada, cílios definidos e boca rosada" aria-label="Ampliar foto: Close do rosto da noiva: sombra esfumada, cílios definidos e boca rosada"><img src="assets/web/noivamaya/04.jpg" width="900" height="1600" sizes="(min-width: 860px) 22vw, 74vw" alt="Close do rosto da noiva: sombra esfumada, cílios definidos e boca rosada" loading="lazy" decoding="async" /><span class="pf-mat"></span><span class="pf-zoom" aria-hidden="true"><svg width="17" height="17" viewBox="0 0 24 24" fill="none" stroke="currentColor" stroke-width="1.7" stroke-linecap="round"><circle cx="11" cy="11" r="6.5"/><path d="M20 20l-4.4-4.4M11 8.4v5.2M8.4 11h5.2"/></svg></span></button></div>
+      </article>
+
+      <!-- Noiva Iza -->
+      <article id="iza" class="mt-16 lg:mt-24 scroll-mt-32">
+        <div class="pf-head flex flex-col md:flex-row md:items-baseline md:justify-between gap-3 md:gap-10">
+          <div class="reveal flex items-baseline gap-4">
+            <h3 class="font-display font-semibold text-[clamp(1.7rem,3.4vw,2.5rem)] leading-none text-terracotta" style="letter-spacing:-0.02em;">Noiva Iza</h3>
+            <span class="eyebrow !text-[0.62rem] !tracking-[0.24em] text-teal/90">Pé na areia</span>
+          </div>
+          <p class="reveal text-sm text-ink/75 leading-relaxed md:max-w-md">Sol a pino na praia: turbante, renda e uma maquiagem construída para não ceder ao calor nem à maresia.</p>
+        </div>
+        
+        <p class="pf-swipe eyebrow !text-[0.6rem] !tracking-[0.26em] mt-4 mb-1 text-teal/80">Deslize para ver mais<svg width="18" height="18" viewBox="0 0 24 24" fill="none" stroke="currentColor" stroke-width="1.5" stroke-linecap="round" aria-hidden="true"><path d="M4 12h15M13 6l6 6-6 6"/></svg></p>
+        <div class="pf-rail mt-3 md:mt-8" style="--cols:4;"><button type="button" class="pf-photo reveal " data-full="assets/web/noivaiza/01.jpg" data-project="Noiva Iza" data-alt="Noiva deitada na areia, vestido de renda espalhado e turbante branco" aria-label="Ampliar foto: Noiva deitada na areia, vestido de renda espalhado e turbante branco"><img src="assets/web/noivaiza/01.jpg" width="1070" height="1600" sizes="(min-width: 860px) 22vw, 74vw" alt="Noiva deitada na areia, vestido de renda espalhado e turbante branco" loading="lazy" decoding="async" /><span class="pf-mat"></span><span class="pf-zoom" aria-hidden="true"><svg width="17" height="17" viewBox="0 0 24 24" fill="none" stroke="currentColor" stroke-width="1.7" stroke-linecap="round"><circle cx="11" cy="11" r="6.5"/><path d="M20 20l-4.4-4.4M11 8.4v5.2M8.4 11h5.2"/></svg></span></button><button type="button" class="pf-photo reveal " data-full="assets/web/noivaiza/02.jpg" data-project="Noiva Iza" data-alt="Retrato da noiva na areia, sorrindo com a mão no cabelo" aria-label="Ampliar foto: Retrato da noiva na areia, sorrindo com a mão no cabelo"><img src="assets/web/noivaiza/02.jpg" width="900" height="1600" sizes="(min-width: 860px) 22vw, 74vw" alt="Retrato da noiva na areia, sorrindo com a mão no cabelo" loading="lazy" decoding="async" /><span class="pf-mat"></span><span class="pf-zoom" aria-hidden="true"><svg width="17" height="17" viewBox="0 0 24 24" fill="none" stroke="currentColor" stroke-width="1.7" stroke-linecap="round"><circle cx="11" cy="11" r="6.5"/><path d="M20 20l-4.4-4.4M11 8.4v5.2M8.4 11h5.2"/></svg></span></button><button type="button" class="pf-photo reveal " data-full="assets/web/noivaiza/03.jpg" data-project="Noiva Iza" data-alt="Noiva em pé sobre as pedras, de frente para o mar, com a cauda de renda estendida" aria-label="Ampliar foto: Noiva em pé sobre as pedras, de frente para o mar, com a cauda de renda estendida"><img src="assets/web/noivaiza/03.jpg" width="848" height="1600" sizes="(min-width: 860px) 22vw, 74vw" alt="Noiva em pé sobre as pedras, de frente para o mar, com a cauda de renda estendida" loading="lazy" decoding="async" /><span class="pf-mat"></span><span class="pf-zoom" aria-hidden="true"><svg width="17" height="17" viewBox="0 0 24 24" fill="none" stroke="currentColor" stroke-width="1.7" stroke-linecap="round"><circle cx="11" cy="11" r="6.5"/><path d="M20 20l-4.4-4.4M11 8.4v5.2M8.4 11h5.2"/></svg></span></button><button type="button" class="pf-photo reveal " data-full="assets/web/noivaiza/04.jpg" data-project="Noiva Iza" data-alt="Noiva na beira do mar, rosto erguido ao sol, vestido de renda ao vento" aria-label="Ampliar foto: Noiva na beira do mar, rosto erguido ao sol, vestido de renda ao vento"><img src="assets/web/noivaiza/04.jpg" width="1162" height="1600" sizes="(min-width: 860px) 22vw, 74vw" alt="Noiva na beira do mar, rosto erguido ao sol, vestido de renda ao vento" loading="lazy" decoding="async" /><span class="pf-mat"></span><span class="pf-zoom" aria-hidden="true"><svg width="17" height="17" viewBox="0 0 24 24" fill="none" stroke="currentColor" stroke-width="1.7" stroke-linecap="round"><circle cx="11" cy="11" r="6.5"/><path d="M20 20l-4.4-4.4M11 8.4v5.2M8.4 11h5.2"/></svg></span></button></div>
       </article>
 
     </div>
@@ -710,6 +710,10 @@
   </section>
 
   </main>
+      </div>
+    </div>
+  </section>
+
   <!-- ============ FOOTER ============ -->
   <footer id="siteFooter" class="beach-footer relative overflow-hidden pt-16 pb-10 border-t border-rose/20">
     <div class="relative z-10 mx-auto max-w-7xl px-5 lg:px-10">
@@ -728,6 +732,7 @@
             <li><a href="index.html#sobre" class="nav-link">Sobre</a></li>
             <li><a href="index.html#servicos" class="nav-link">Serviços</a></li>
             <li><a href="portfolio.html" class="nav-link" aria-current="page">Portfólio</a></li>
+            <li><a href="portfolio.html" class="nav-link">Portfólio</a></li>
             <li><a href="index.html#processo" class="nav-link">Como funciona</a></li>
             <li><a href="index.html#faq" class="nav-link">Dúvidas</a></li>
           </ul>
@@ -748,11 +753,6 @@
       </div>
     </div>
   </footer>
-
-  <!-- Floating WhatsApp -->
-  <a href="https://wa.me/5512992364249?text=Ol%C3%A1%20Arih%2C%20gostaria%20de%20um%20or%C3%A7amento" target="_blank" rel="noopener" aria-label="Falar no WhatsApp" class="float-wa fixed bottom-6 right-6 z-50 h-14 w-14 rounded-full bg-[#25D366] text-white flex items-center justify-center">
-    <svg width="28" height="28" viewBox="0 0 24 24" fill="currentColor"><path d="M.06 24l1.68-6.13A11.86 11.86 0 0 1 .16 11.9C.16 5.34 5.5 0 12.06 0a11.82 11.82 0 0 1 8.41 3.49 11.82 11.82 0 0 1 3.48 8.41c0 6.56-5.34 11.9-11.9 11.9a11.9 11.9 0 0 1-5.69-1.45L.06 24Zm6.6-3.8c1.68.99 3.28 1.58 5.4 1.58 5.45 0 9.89-4.43 9.89-9.88 0-2.64-1.03-5.12-2.9-6.99a9.82 9.82 0 0 0-6.98-2.9c-5.46 0-9.9 4.44-9.9 9.89 0 1.87.52 3.28 1.4 4.75l-.99 3.62 3.08-1.07Zm11.39-5.31c-.07-.12-.27-.2-.57-.35-.3-.15-1.76-.87-2.03-.97-.27-.1-.47-.15-.67.15-.2.3-.77.97-.94 1.17-.17.2-.35.22-.64.07-.3-.15-1.26-.46-2.4-1.48-.88-.79-1.48-1.76-1.65-2.06-.17-.3-.02-.46.13-.6.13-.14.3-.35.45-.52.15-.17.2-.3.3-.5.1-.2.05-.37-.02-.52-.07-.15-.67-1.61-.92-2.21-.24-.58-.49-.5-.67-.51l-.57-.01c-.2 0-.52.07-.79.37-.27.3-1.04 1.02-1.04 2.48 0 1.46 1.06 2.88 1.21 3.08.15.2 2.1 3.2 5.08 4.49.71.3 1.26.49 1.69.62.71.23 1.36.2 1.87.12.57-.08 1.76-.72 2-1.41.25-.69.25-1.28.17-1.41Z"/></svg>
-  </a>
 
   <!-- ============ LIGHTBOX ============ -->
   <div class="lb" id="lightbox" role="dialog" aria-modal="true" aria-label="Foto ampliada">
